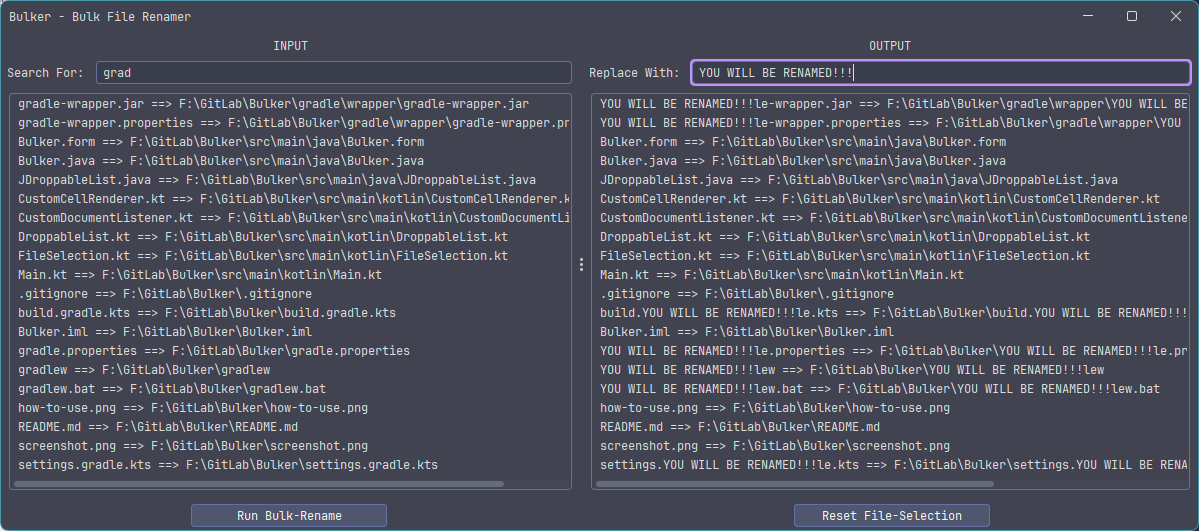
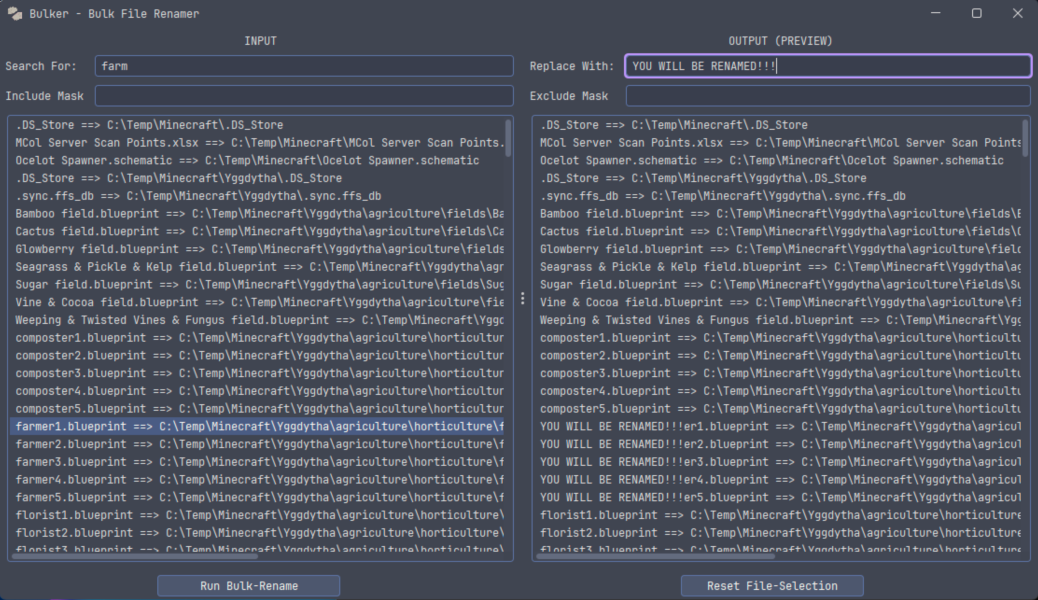
Allow fine-tuning with include and exclude regex in GUI and CLI

diff --git a/src/main/kotlin/BulkerKt.kt b/src/main/kotlin/BulkerKt.kt
@@ -55,9 +55,10 @@ class BulkerKt : Bulker() {
     }
 
     private fun addListeners() {
-
         inputSearchTextField.document.addDocumentListener(docListener)
         outputReplaceTextField.document.addDocumentListener(docListener)
+        inputMaskTextField.document.addDocumentListener(docListener)
+        outputMaskTextField.document.addDocumentListener(docListener)
         inputFileList.model.addListDataListener(object : ListDataListener {
             override fun intervalAdded(e: ListDataEvent?) {
                 refreshOutputFileList()
@@ -89,7 +90,13 @@ class BulkerKt : Bulker() {
                 JOptionPane.WARNING_MESSAGE
             )
             if (result == JOptionPane.YES_OPTION) {
-                val renamed = renameFiles(inputSearchTextField.text, outputReplaceTextField.text, getFileList())
+                val renamed = renameFiles(
+                    inputSearchTextField.text,
+                    outputReplaceTextField.text,
+                    getFileList(),
+                    getIncludeMask(),
+                    getExcludeMask()
+                )
                 JOptionPane.showMessageDialog(
                     frame,
                     """
@@ -115,10 +122,13 @@ class BulkerKt : Bulker() {
         }
     }
 
-    fun renameFiles(searchFor: String, replaceWith: String, files: List<File>): MutableList<File> {
+    fun renameFiles(searchFor: String, replaceWith: String, files: List<File>, includeMask: Regex, excludeMask: Regex): MutableList<File> {
         val renamedFiles = ArrayList<File>()
         val parsedFiles = files.filter { file -> file.name.contains(searchFor) }
         for (file in parsedFiles) {
+            if (!file.absolutePath.matches(includeMask) && file.absolutePath.matches(excludeMask)) {
+                continue
+            }
             val oldFile = file.absoluteFile
             val parentPath = file.parentFile.absolutePath
             val fileName = oldFile.name
@@ -164,36 +174,101 @@ class BulkerKt : Bulker() {
     }
 
     fun countPotentialRenames(): Int {
-        val inputModel = inputFileList.model as DefaultListModel<Any>
-        val inputIterator: MutableIterator<Any> = inputModel.elements().asIterator()
-        var counter = 0
-        while (inputIterator.hasNext()) {
-            val hashtable = inputIterator.next() as Hashtable<Any, Any>
-            val oldFilename = hashtable["name"].toString()
-            if (oldFilename.contains(inputSearchTextField.text)) {
-                counter++
-            }
-        }
-        return counter
+        return getOutputFilenames().size
     }
 
     fun refreshOutputFileList() {
-        val inputModel = inputFileList.model as DefaultListModel<Any>
         val outputModel = outputFileList.model as DefaultListModel<Any>
+        val outputFileNames = getOutputFilenames()
+
+        outputModel.clear()
+        outputModel.addAll(outputFileNames)
+        outputFileList.setModel(outputModel)
+    }
+
+    fun getOutputFilenames(): List<String> {
+        val inputModel = inputFileList.model as DefaultListModel<Any>
         val inputIterator = inputModel.elements().asIterator()
-        val inputFileNames = mutableListOf<String>()
+        val outputFileNames = mutableListOf<String>()
+        val includeMask = getIncludeMask()
+        val excludeMask = getExcludeMask()
 
         while (inputIterator.hasNext()) {
             val hashtable = inputIterator.next() as Hashtable<Any, Any>
             val oldFilename = hashtable["name"].toString()
             val oldFilepath = hashtable["path"].toString()
-            val newFilename = oldFilename.replace(inputSearchTextField.text, outputReplaceTextField.text)
-            val newFilepath = oldFilepath.substring(0, oldFilepath.length - oldFilename.length) + newFilename
-            inputFileNames.add("$newFilename ==> $newFilepath")
+
+            if (oldFilepath.matches(includeMask) && !oldFilepath.matches(excludeMask)) {
+                val newFilename = oldFilename.replace(inputSearchTextField.text, outputReplaceTextField.text)
+                val newFilepath = oldFilepath.substring(0, oldFilepath.length - oldFilename.length) + newFilename
+                outputFileNames.add("$newFilename ==> $newFilepath")
+            }
         }
 
-        outputModel.clear()
-        outputModel.addAll(inputFileNames)
-        outputFileList.setModel(outputModel)
+        return outputFileNames.toList()
+    }
+
+    fun compileMask(string: String): Regex {
+        return string.toRegex()
+    }
+
+    fun getIncludeMask(): Regex {
+        return if (inputMaskTextField.text.isNotEmpty()) {
+            compileMask(inputMaskTextField.text)
+        } else {
+            compileMask(".*")
+        }
+    }
+
+    fun getIncludeMask(args: Array<String>): Regex {
+        val searchPos = args.indexOf("--include-mask")
+        return compileMask(args[searchPos + 1])
+    }
+
+    fun getExcludeMask(): Regex {
+        return if (outputMaskTextField.text.isNotEmpty()) {
+            compileMask(outputMaskTextField.text)
+        } else {
+            compileMask("You're in trouble, program. Why don't you make it easy on yourself. --END OF LINE--")
+        }
+    }
+
+    fun getExcludeMask(args: Array<String>): Regex {
+        val searchPos = args.indexOf("--exclude-mask")
+        return compileMask(args[searchPos + 1])
+    }
+
+    fun getSearchFor(args: Array<String>): String {
+        val searchPos = args.indexOf("--search")
+        return args[searchPos + 1]
+    }
+
+    fun getReplaceWith(args: Array<String>): String {
+        val searchPos = args.indexOf("--replace")
+        return args[searchPos + 1]
+    }
+
+    fun getInputs(args: Array<String>): List<File> {
+        val files = mutableListOf<File>()
+        val inputPositions = mutableListOf<Int>()
+        for (i in args.indices) {
+            if (args[i] == "--input") {
+                inputPositions.add(i + 1)
+            }
+        }
+        for (i in inputPositions) {
+            val file = File(args[i])
+            if (file.isFile) {
+                files.add(file)
+            }
+            if (file.isDirectory) {
+                file.walk(FileWalkDirection.TOP_DOWN).forEach { walked ->
+                    if (walked.isFile) {
+                        files.add(walked)
+                    }
+                }
+            }
+        }
+        return files
     }
 }

diff --git a/src/main/kotlin/Main.kt b/src/main/kotlin/Main.kt
@@ -1,13 +1,14 @@
 package de.griefed
 
-import java.io.File
 import javax.swing.SwingUtilities
 import kotlin.system.exitProcess
 
 /**
- * --search, singular
- * --replace, singular
- * --input, multiple
+ * --search, singular, cannot be empty
+ * --replace, singular, cannot be empty
+ * --input, multiple, at least one, cannot be empty
+ * --include-mask, singular, can be empty
+ * --exclude-mask, singular, can be empty
  */
 fun main(args: Array<String>) {
     val bulker = BulkerKt()
@@ -22,10 +23,12 @@ fun main(args: Array<String>) {
             exitProcess(1)
         }
 
-        val search = getSearchFor(args)
-        val replace = getReplaceWith(args)
-        val files = getInputs(args)
-        val renamed = bulker.renameFiles(search, replace, files)
+        val search = bulker.getSearchFor(args)
+        val replace = bulker.getReplaceWith(args)
+        val files = bulker.getInputs(args)
+        val includeMask = bulker.getIncludeMask(args)
+        val excludeMask = bulker.getExcludeMask(args)
+        val renamed = bulker.renameFiles(search, replace, files, includeMask, excludeMask)
         println("Renamed the following files:")
         renamed.forEach {
             println(it)
@@ -37,38 +40,4 @@ fun main(args: Array<String>) {
             bulker.makeVisible()
         }
     }
-}
-
-fun getSearchFor(args: Array<String>): String {
-    val searchPos = args.indexOf("--search")
-    return args[searchPos + 1]
-}
-
-fun getReplaceWith(args: Array<String>): String {
-    val searchPos = args.indexOf("--replace")
-    return args[searchPos + 1]
-}
-
-fun getInputs(args: Array<String>): List<File> {
-    val files = mutableListOf<File>()
-    val inputPositions = mutableListOf<Int>()
-    for (i in args.indices) {
-        if (args[i] == "--input") {
-            inputPositions.add(i + 1)
-        }
-    }
-    for (i in inputPositions) {
-        val file = File(args[i])
-        if (file.isFile) {
-            files.add(file)
-        }
-        if (file.isDirectory) {
-            file.walk(FileWalkDirection.TOP_DOWN).forEach { walked ->
-                if (walked.isFile) {
-                    files.add(walked)
-                }
-            }
-        }
-    }
-    return files
 }

diff --git a/src/main/kotlin/FileSelection.kt b/src/main/kotlin/FileSelection.kt
@@ -9,7 +9,7 @@ import java.io.StringReader
 import java.util.*
 
 class FileSelection(file: File?) : Vector<Any?>(), Transferable {
-    var flavors: Array<DataFlavor?>? =
+    var flavors: Array<DataFlavor> =
         arrayOf(DataFlavor.javaFileListFlavor, DataFlavor.stringFlavor, DataFlavor.plainTextFlavor)
 
     init {
@@ -18,16 +18,16 @@ class FileSelection(file: File?) : Vector<Any?>(), Transferable {
 
     /* Returns the array of flavors in which it can provide the data. */
     @Synchronized
-    override fun getTransferDataFlavors(): Array<DataFlavor?>? {
+    override fun getTransferDataFlavors(): Array<DataFlavor> {
         return flavors
     }
 
     /* Returns whether the requested flavor is supported by this object. */
     override fun isDataFlavorSupported(flavor: DataFlavor): Boolean {
         var b = false
-        b = b or flavor.equals(flavors!![FILE])
-        b = b or flavor.equals(flavors!![STRING])
-        b = b or flavor.equals(flavors!![PLAIN])
+        b = b or flavor.equals(flavors[FILE])
+        b = b or flavor.equals(flavors[STRING])
+        b = b or flavor.equals(flavors[PLAIN])
         return (b)
     }
 
@@ -38,12 +38,12 @@ class FileSelection(file: File?) : Vector<Any?>(), Transferable {
     @Synchronized
     @Throws(UnsupportedFlavorException::class, IOException::class)
     override fun getTransferData(flavor: DataFlavor): Any {
-        if (flavor.equals(flavors!![FILE])) {
-            return this
-        } else if (flavor.equals(flavors!![PLAIN])) {
-            return StringReader((elementAt(0) as File).absolutePath)
-        } else if (flavor.equals(flavors!![STRING])) {
-            return (elementAt(0) as File).absolutePath
+        return if (flavor.equals(flavors[FILE])) {
+            this
+        } else if (flavor.equals(flavors[PLAIN])) {
+            StringReader((elementAt(0) as File).absolutePath)
+        } else if (flavor.equals(flavors[STRING])) {
+            (elementAt(0) as File).absolutePath
         } else {
             throw UnsupportedFlavorException(flavor)
         }

diff --git a/src/main/kotlin/DroppableList.kt b/src/main/kotlin/DroppableList.kt
@@ -10,14 +10,14 @@ import javax.swing.DefaultListModel
 import javax.swing.JList
 
 @Suppress("unused")
-open class DroppableList : JList<Any?>(), DropTargetListener, DragSourceListener, DragGestureListener {
+open class DroppableList : JList<Any>(), DropTargetListener, DragSourceListener, DragGestureListener {
 
     var dragSource: DragSource = DragSource.getDefaultDragSource()
 
     init {
         dropTarget = DropTarget(this, this)
         dragSource.createDefaultDragGestureRecognizer(this, DnDConstants.ACTION_COPY_OR_MOVE, this)
-        model = DefaultListModel<Any?>()
+        model = DefaultListModel<Any>()
     }
 
     override fun dragDropEnd(DragSourceDropEvent: DragSourceDropEvent?) {

diff --git a/src/main/java/Bulker.java b/src/main/java/Bulker.java
@@ -23,6 +23,27 @@ public class Bulker {
     private JPanel controlPanel;
     private JDroppableList inputFileList;
 
+    public JTextField getInputMaskTextField() {
+        return inputMaskTextField;
+    }
+
+    public JLabel getInputMaskLabel() {
+        return inputMaskLabel;
+    }
+
+    public JLabel getOutputMaskLabel() {
+        return outputMaskLabel;
+    }
+
+    public JTextField getOutputMaskTextField() {
+        return outputMaskTextField;
+    }
+
+    private JTextField inputMaskTextField;
+    private JLabel inputMaskLabel;
+    private JLabel outputMaskLabel;
+    private JTextField outputMaskTextField;
+
     protected JPanel getApplicationPanel() {
         return applicationPanel;
     }

diff --git a/README.md b/README.md
@@ -19,6 +19,8 @@ Download the latest *Bulker-VERSION-all.jar* version from: https://github.com/Gr
 4. Enter the replacement-text into `Replace With` in the top right.
 5. Hit the `Run Bulk-Rename`-button to rename all files which have your search-text in their name.
 
+**Include Mask** and **Exclude Mask** are *Optional*. They are Regexpressions you can use to further fine-trim your renaming and can be left empty. 
+
 ![how-to-use.png](how-to-use.png)
 
 ### CLI
@@ -32,12 +34,18 @@ There's three arguments you must use:
 1. `--search`
 2. `--replace`
 3. `--input`
+4. `--include-mask` (Optional)
+5. `--exclude-mask` (Optional)
 
 `--search` is the text you want to look for in filenames. The equivalent to `Search For` in the GUI. Only a single `--search` when running in CLI.
 
 `--replace` is the text you want to replace the searched text *with*. The equivalent to `Replace With` in the GUI. Only a single `--replace` when running in CLI.
 
 `--input` must be the path to a file or directory. Directories are checked recursively. You may specify as many `--input` as you like.
+
+`--include-mask` is an *optional* Regex which acts as an additional filter for file to *INCLUDE*. If this Regex matches a file, it will be included in the rename-process. If you don't want to use it, ignore this argument.
+
+`--exclude-mask` is an *optional* Regex which acts as an additional filter for files to *EXCLUDE*. If this Regex matches a file, it will be excluded from the rename-process. If you don't want to use it, ignore this argument.
 
 Example output for some Minecraft-files:
 
